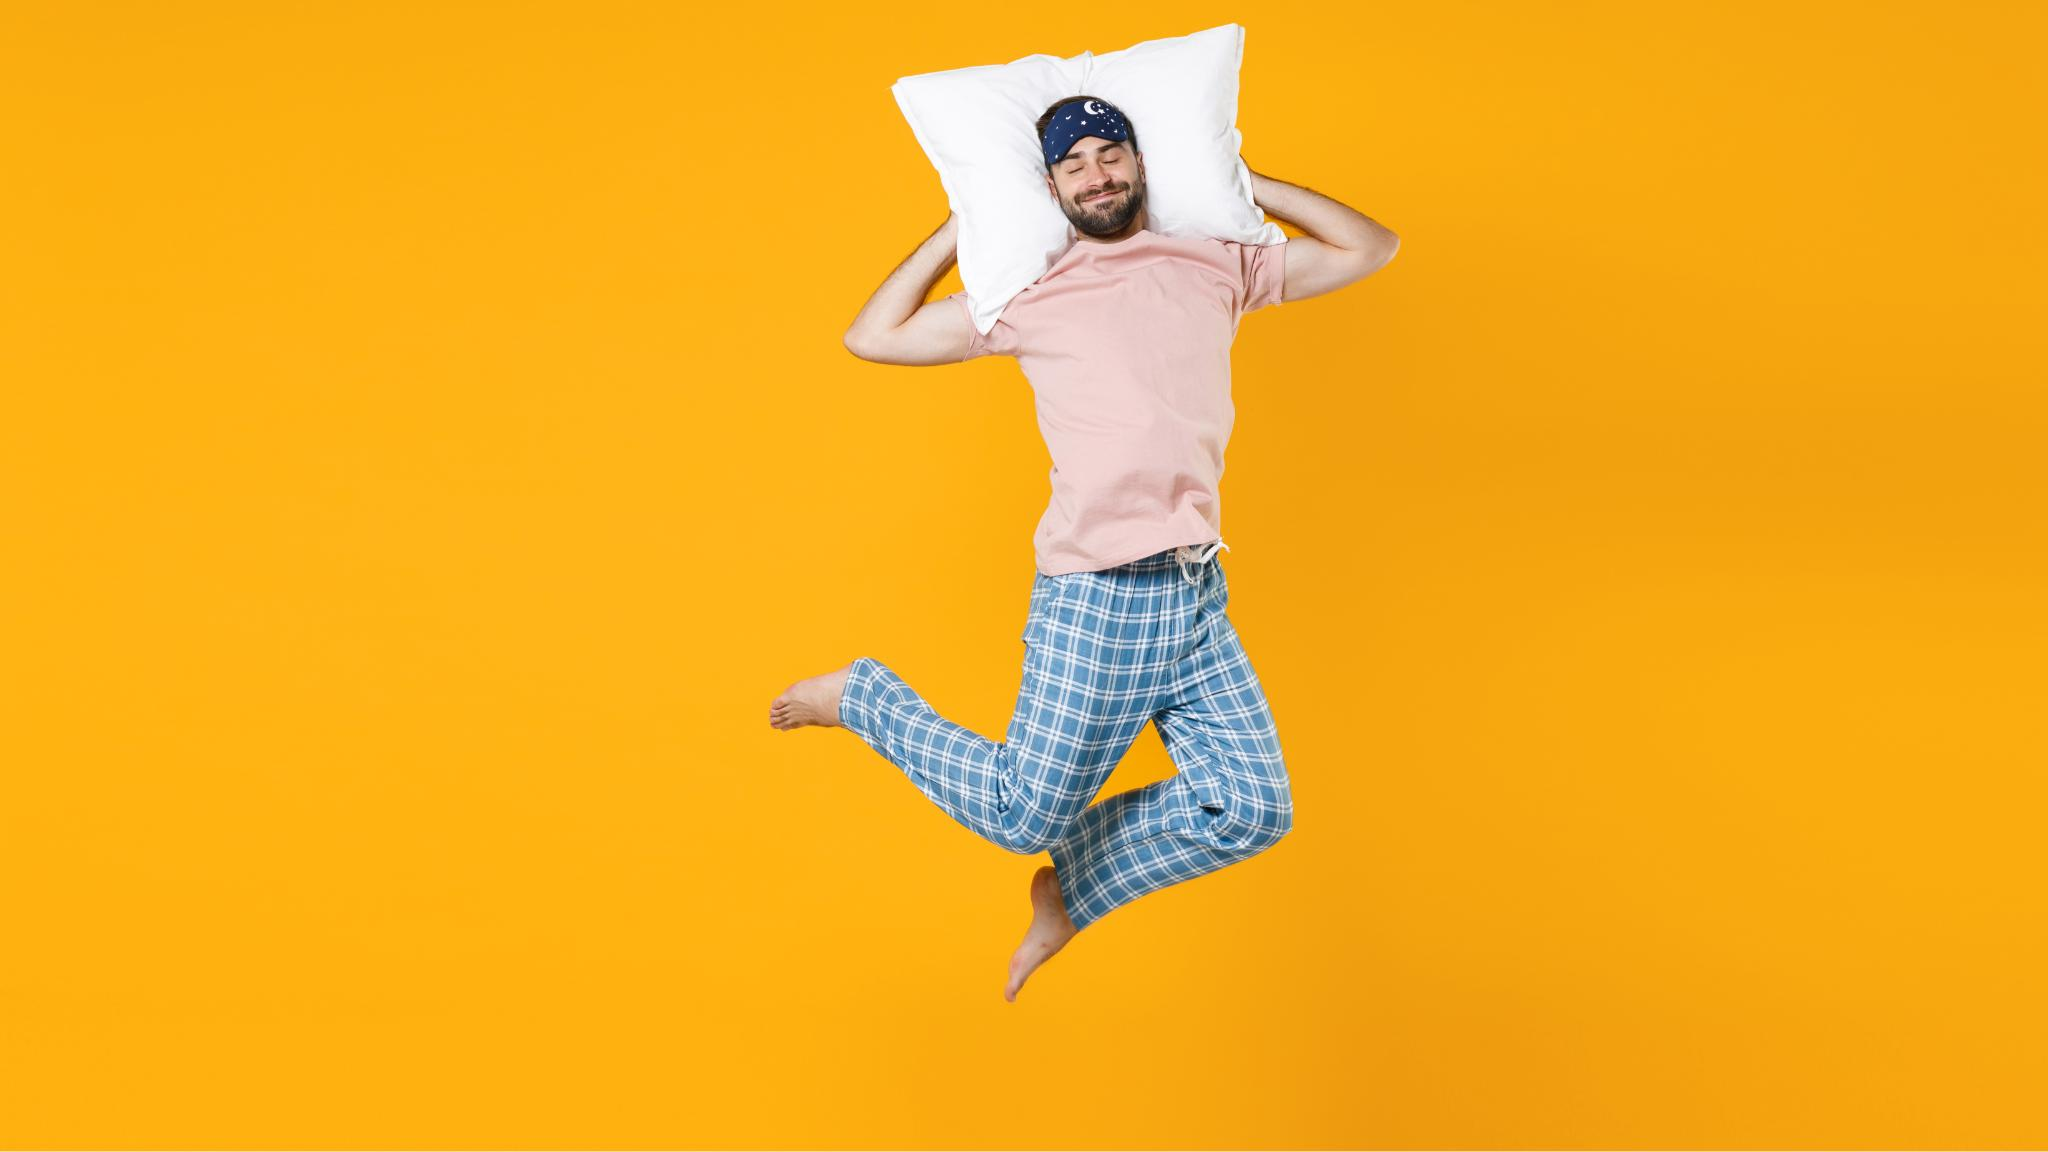
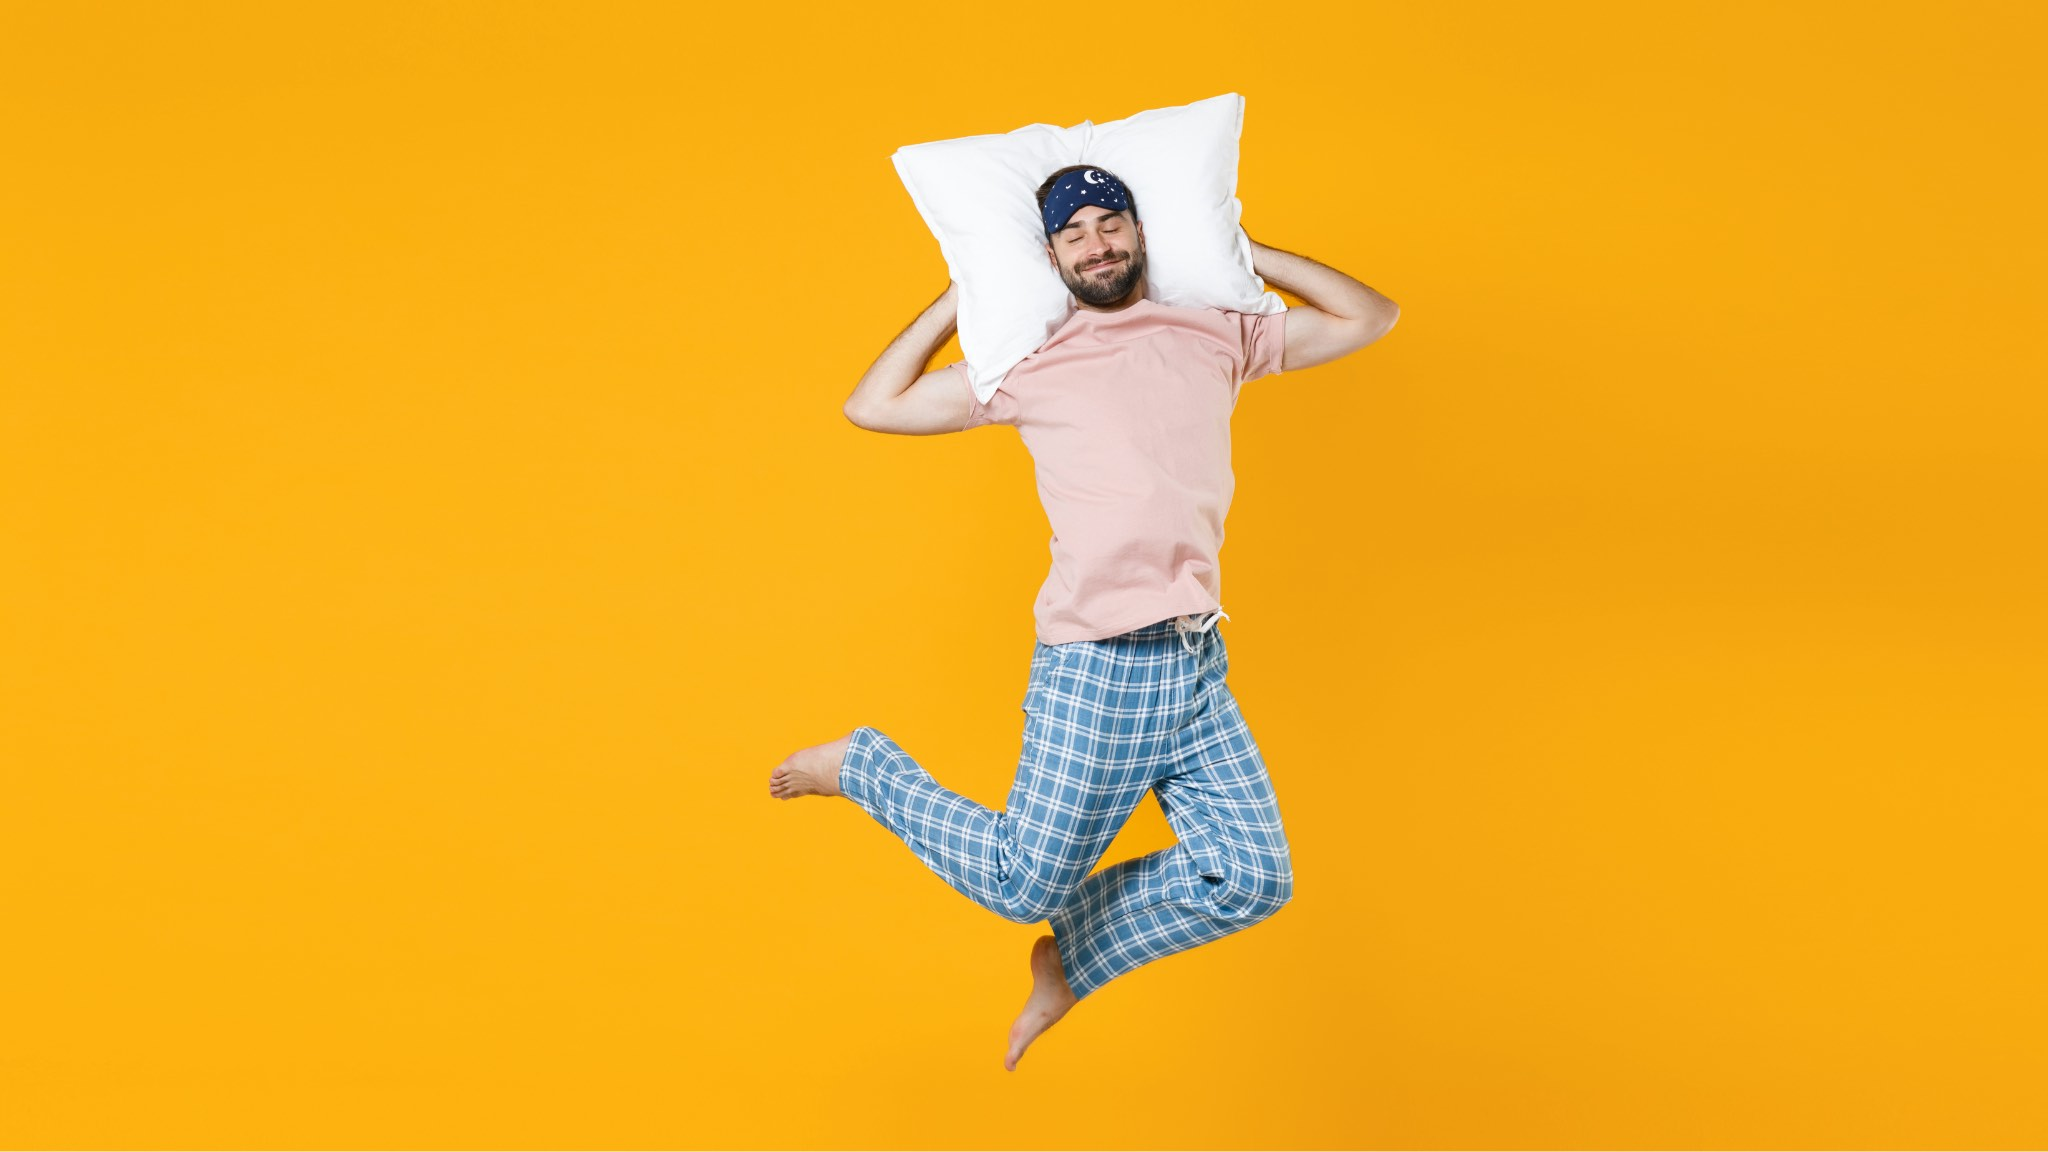
Styling changes

Changed region(s): [[0.375, 0.0, 0.6875, 0.9375]]

diff --git a/style.css b/style.css
@@ -189,6 +189,13 @@ footer a {
     min-width: 100%;
     height: 100%;
     object-fit: cover;
+    object-position: 40% top;
+}
+
+@media (orientation: landscape) {
+    .background-lang-container img.bk-img-en {
+        object-position: 20% top;
+    }
 }
 
 img.logo {
@@ -296,7 +303,7 @@ form span a {
         margin-left: -56%;
     }
     .background-lang-container img.bk-img-en {
-        margin-left: -41%;
+        margin-left: -48%;
     }
 }
 
@@ -306,7 +313,7 @@ form span a {
         margin-left: -109%;
     }
     .background-lang-container img.bk-img-en {
-        margin-left: -88%;
+        margin-left: -98%;
     }
 }
 

diff --git a/index.php b/index.php
@@ -3,20 +3,19 @@
 
 <?php include_once "partials/head.php"; ?>
 
-<body class="home d-flex flex-column">
-    <div class="home-wrapper large-pad">
-        <div class="menu-case d-flex flex-column align-items-center align-items-md-start">
-            <div class="d-flex justify-content-center align-items-center logo-wrapper">
-                <img src="assets/jimmys_logo.png" srcset="assets/jimmys_logo.svg 1x" class="img-fluid">
-            </div>
-            <div class="d-flex flex-column justify-content-center align-items-center btn-wrapper">
-                <a href="de.php" class="btn btn-black mb-4">Deutsch</a>
-                <a href="en.php" class="btn btn-black">English</a>
-            </div>
+<body class="home d-flex flex-column justify-content-center">
+    
+    <div class="menu-case d-flex flex-column align-items-center align-items-md-start large-pad py-4 my-auto">
+        <div class="d-flex justify-content-center align-items-center logo-wrapper">
+            <img src="assets/jimmys_logo.png" srcset="assets/jimmys_logo.svg 1x" class="img-fluid">
+        </div>
+        <div class="d-flex flex-column justify-content-center align-items-center btn-wrapper">
+            <a href="de.php" class="btn btn-black mb-4">Deutsch</a>
+            <a href="en.php" class="btn btn-black">English</a>
         </div>
     </div>
 
-    <footer class="d-flex flex-column align-items-center align-items-md-start flex-md-row large-pad mt-auto mb-5">
+    <footer class="d-flex flex-column align-items-center align-items-md-start flex-md-row large-pad pb-md-5">
         <div class="mr-md-5 mb-5 mb-md-0 d-flex flex-column align-items-center align-items-md-start">
             <a href="mailto:office@jimmys.at">office@jimmys.at</a>
             <span class="text-center text-md-left">Am einfachsten, Sie schicken uns ein kurzes<br class="d-none d-md-block"> e-mail - wir Antworten wirklich schnell!</span>

diff --git a/de.php b/de.php
@@ -7,12 +7,12 @@
 
     <div class="page-wrapper d-flex flex-column justify-content-between">
         
-        <div class="content-wrapper d-flex flex-column justify-content-around large-pad">
+        <div class="content-wrapper d-flex flex-column justify-content-center large-pad">
             <img src="assets/jimmys_logo.png" srcset="assets/jimmys_logo.svg 1x" class="img-fluid logo mb-5">
         
             <div>
                 <h1 class="mb-4">Bleiben wir in Verbindung</h1>
-                <p class="mb-4">Für unseren Newsletter anmelden und exklusive Angebote<br> und Neuigkeiten zu Jimmy’s Apartments direkt per E-Mail erhalten.</p>
+                <p class="mb-4 mb-xl-5">Für unseren Newsletter anmelden und exklusive Angebote<br> und Neuigkeiten zu Jimmy’s Apartments direkt per E-Mail erhalten.</p>
 
                 <form>
                     <div class="row">
@@ -40,7 +40,7 @@
             </div>
         </div>
 
-        <div class="large-pad footer-info d-flex flex-column lowercase py-5 bk-yellow">
+        <div class="large-pad footer-info d-flex flex-column align-items-start lowercase pt-5 pb-md-5 pb-lg-0 bk-yellow">
                 <p class="mb-0"><strong>Buchen, anfragen, informieren:</strong></p>
                 <a href="#">jimmys.at</a>
                 <a href="mailto:office@jimmys.at">office@jimmys.at</a>

diff --git a/en.php b/en.php
@@ -7,12 +7,12 @@
 
     <div class="page-wrapper d-flex flex-column justify-content-between">
         
-        <div class="content-wrapper d-flex flex-column justify-content-around large-pad">
+        <div class="content-wrapper d-flex flex-column justify-content-center large-pad">
             <img src="assets/jimmys_logo.png" srcset="assets/jimmys_logo.svg 1x" class="img-fluid logo mb-5">
         
             <div>
                 <h1 class="mb-4">Stay in touch</h1>
-                <p class="mb-4">Subscribe to our newsletter and receive exclusive offers<br> and news about Jimmy’s Apartments directly by e-mail.</p>
+                <p class="mb-4 mb-xl-5">Subscribe to our newsletter and receive exclusive offers<br> and news about Jimmy’s Apartments directly by e-mail.</p>
 
                 <form>
                     <div class="row">
@@ -40,7 +40,7 @@
             </div>
         </div>
 
-        <div class="large-pad footer-info d-flex flex-column lowercase pt-5 bk-bleu">
+        <div class="large-pad footer-info d-flex flex-column align-items-start lowercase pt-5 pb-md-5 pb-lg-0 bk-bleu">
                 <p class="mb-0"><strong>Bookings and more information:</strong></p>
                 <a href="#">jimmys.at</a>
                 <a href="mailto:office@jimmys.at">office@jimmys.at</a>
